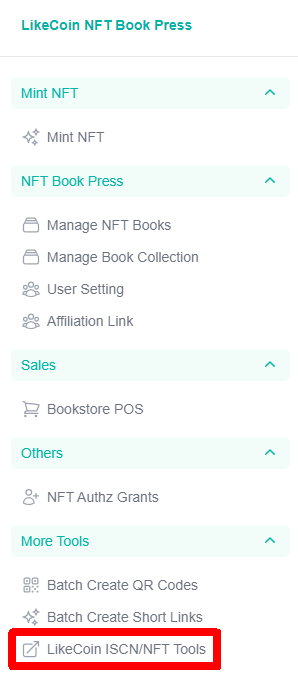
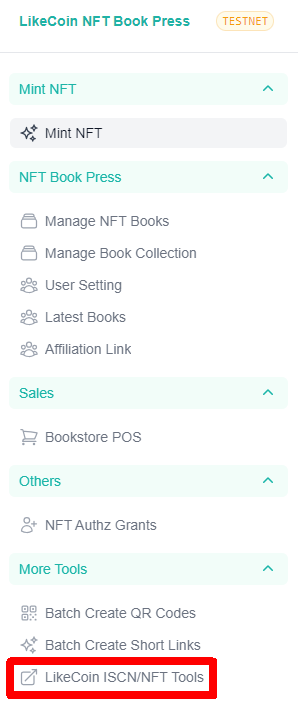
GITBOOK-4722: 銷毁已出版的電子書

diff --git a/depub/nft-book-press/user/stripe-connect-status.md b/depub/nft-book-press/user/stripe-connect-status.md
@@ -1,0 +1,57 @@
+# Stripe Connect Status
+
+到 [LikeCoin NFT Book Press](https://likecoin.github.io/nft-book-press/) 網站，進入網站後按左下角「Sign in」連結錢包，再點「[User Setting](https://likecoin.github.io/nft-book-press/nft-book-store/user)」。
+
+### Stripe Connect Status
+
+點「**Setup your ID**」開始設定 Stripe 帳戶。
+
+系統將跳轉至 Stripe 網站。填寫你的電郵 ( Email )及流動電話號碼 ( Mobile number )，點「Continue」。
+
+<figure><img src="../../../.gitbook/assets/Manage Stripe Account 2.png" alt=""><figcaption><p>填寫電郵及電話號碼</p></figcaption></figure>
+
+你的電話會收到驗證碼 ( verification code )，把它填進去。
+
+<figure><img src="../../../.gitbook/assets/Manage Stripe Account 3.png" alt=""><figcaption><p>輸入驗驗碼</p></figcaption></figure>
+
+在 Tell us about your business 頁面填寫所在國家 ( Country ) 及產業屬性 ( Type of business )，點「Continue」。
+
+<figure><img src="../../../.gitbook/assets/Manage Stripe Account 4.png" alt=""><figcaption><p>填寫所在國家及產業屬性</p></figcaption></figure>
+
+在 Verify your personal details 頁面輸入名字 ( First Name )、姓氏 ( First Name ) 及出生日期 ( Date of birth )，點「Continue」。
+
+<figure><img src="../../../.gitbook/assets/Manage Stripe Account 5.png" alt=""><figcaption><p>輸入名字、姓氏及出生日期</p></figcaption></figure>
+
+點銀行帳戶 ( Bank Account ) 設定你的i帳戶擁有者姓名 ( Account holder name )、選擇銀行 ( Choose your bank )、選擇分行 ( Choose your branch ) 及輸入你的帳戶號碼 ( Account Number ) 再點「Save」。
+
+<figure><img src="../../../.gitbook/assets/Manage Stripe Account 6.png" alt=""><figcaption><p>填寫銀行帳戶資料</p></figcaption></figure>
+
+如選擇密碼貨幣提現、選擇加密錢包 ( Crypto wallet )，再選擇常種 ( Currency ) 及網絡 ( Network ) 及輸入錢包地址後 ( wallet address ) 再點「Save」。
+
+<figure><img src="../../../.gitbook/assets/Manage Stripe Account 7.png" alt=""><figcaption><p>填寫密碼貨幣錢包資料</p></figcaption></figure>
+
+在 Review and submit 頁面查看輸入資料是否正確，完成後再點「Agree and submit」。
+
+<figure><img src="../../../.gitbook/assets/Manage Stripe Account 8.png" alt=""><figcaption><p>資料無誤點「Agree and submit」</p></figcaption></figure>
+
+Stripe 審批完成後 Setup Completed 將轉為「Yes」。
+
+<figure><img src="../../../.gitbook/assets/Manage Stripe Account 9.png" alt=""><figcaption><p>Stripe 審批完成</p></figcaption></figure>
+
+你可以隨時點「**Login to Stripe account**」查看或修改資料。
+
+<figure><img src="../../../.gitbook/assets/Manage Stripe Account 19.png" alt=""><figcaption><p>點「Login to Stripe account」查看或修改資料</p></figcaption></figure>
+
+### User Setting
+
+User Setting 顯示 Liker ID 所設置的電郵，Email Notification Settings 預設為 Receive email notifications about commissions 即收關於佣金的電郵。如不想收取該等電郵可把它關掉再點「**Update**」更新。
+
+<figure><img src="../../../.gitbook/assets/Manage Stripe Account 12.png" alt=""><figcaption><p>User Setting</p></figcaption></figure>
+
+### Book Sales Commission History
+
+### Commission Payout History
+
+在 Book Sales Commission History 可參看佣金狀態。Commission Payout History 可參看佣金支付記錄。
+
+<figure><img src="../../../.gitbook/assets/Manage Stripe Account 13.png" alt=""><figcaption><p>Book Sales Commission History, Commission Payout History</p></figcaption></figure>

diff --git a/depub/nft-book-press/user/README.md b/depub/nft-book-press/user/README.md
@@ -1,0 +1,43 @@
+---
+description: 加入及更改用戶設定，參與推廣聯盟計劃
+---
+
+# 用戶設定
+
+到 [LikeCoin NFT Book Press](https://likecoin.github.io/nft-book-press/) 網站，進入網站後按左下角「Sign in」連結錢包，再點「[User Setting](https://likecoin.github.io/nft-book-press/nft-book-store/user)」。
+
+仍未設定 Stripe 帳戶將顯示「No」。建議逐一完成 Book Affiliation Program 及 Stripe Connect 設定以參與推廣聯盟計劃及收取售書貨款。
+
+<figure><img src="../../../.gitbook/assets/Manage Stripe Account 1.png" alt=""><figcaption><p>User Setting</p></figcaption></figure>
+
+### Book Affiliation Program
+
+點「**Setup your ID**」將開始註冊 Liker ID 及驗證電郵流程，詳見：
+
+{% content-ref url="../../register/" %}
+[register](../../register/)
+{% endcontent-ref %}
+
+亦可修改頭像及顯示名稱：
+
+{% content-ref url="../../register/edit-avatar-displayname.md" %}
+[edit-avatar-displayname.md](../../register/edit-avatar-displayname.md)
+{% endcontent-ref %}
+
+完成設定後顯示 Affiliation channel ID。
+
+<figure><img src="../../../.gitbook/assets/Manage Stripe Account 11.png" alt=""><figcaption><p>Affiliation channel ID</p></figcaption></figure>
+
+在任何電子書網址連結附加 `?from=@[Liker ID]`，即可從書籍銷售中獲得佣金。舉例：
+
+* Liker ID 是 `ckxpress`
+* NFT的連結是 https://liker.land/zh-Hant/nft/class/likenft19symzw3xmh42gukzts858wf6rsdkn6e4jtc9wp8jh4kphfmffy5s6acyxg
+* 專屬連結就是 https://liker.land/zh-Hant/nft/class/likenft19symzw3xmh42gukzts858wf6rsdkn6e4jtc9wp8jh4kphfmffy5s6acyxg?from=@ckxpress
+
+***
+
+繼續設定 Stripe Connect:
+
+{% content-ref url="stripe-connect-status.md" %}
+[stripe-connect-status.md](stripe-connect-status.md)
+{% endcontent-ref %}

diff --git a/depub/nft-book-press/README.md b/depub/nft-book-press/README.md
@@ -22,7 +22,7 @@ description: 使用 NFT Book Press 將電子書出版為 NFT
 
 4. [管理電子書](nft-book-store.md)
 5. [設定電子書套裝](collection.md)
-6. [NFT Book Press 用戶設定](user.md)
+6. [NFT Book Press 用戶設定](user/)
 7. [設定推廣連結](tui-guang-lian-jie.md)
 8. [補書上架](replenishment.md)
 9. [修改已出版的電子書資料](modify.md)
@@ -191,8 +191,8 @@ description: 使用 NFT Book Press 將電子書出版為 NFT
 
 連結 Stripe 帳戶，點擊後將開始連結 Stripe 帳戶，詳見：
 
-{% content-ref url="user.md" %}
-[user.md](user.md)
+{% content-ref url="user/" %}
+[user](user/)
 {% endcontent-ref %}
 
 <figure><img src="../../.gitbook/assets/NFT Book Press 27.png" alt=""><figcaption><p>Connect to a Stripe Account</p></figcaption></figure>

diff --git a/SUMMARY.md b/SUMMARY.md
@@ -10,7 +10,8 @@
 * [出版電子書](depub/nft-book-press/README.md)
   * [管理電子書](depub/nft-book-press/nft-book-store.md)
   * [設定電子書套裝](depub/nft-book-press/collection.md)
-  * [用戶設定](depub/nft-book-press/user.md)
+  * [用戶設定](depub/nft-book-press/user/README.md)
+    * [Stripe Connect Status](depub/nft-book-press/user/stripe-connect-status.md)
   * [推廣連結](depub/nft-book-press/tui-guang-lian-jie.md)
   * [管理 Authz 授權](depub/nft-book-press/authz.md)
   * [批量製作 QR Code 與短網址](depub/nft-book-press/qr-codes-short-links.md)
